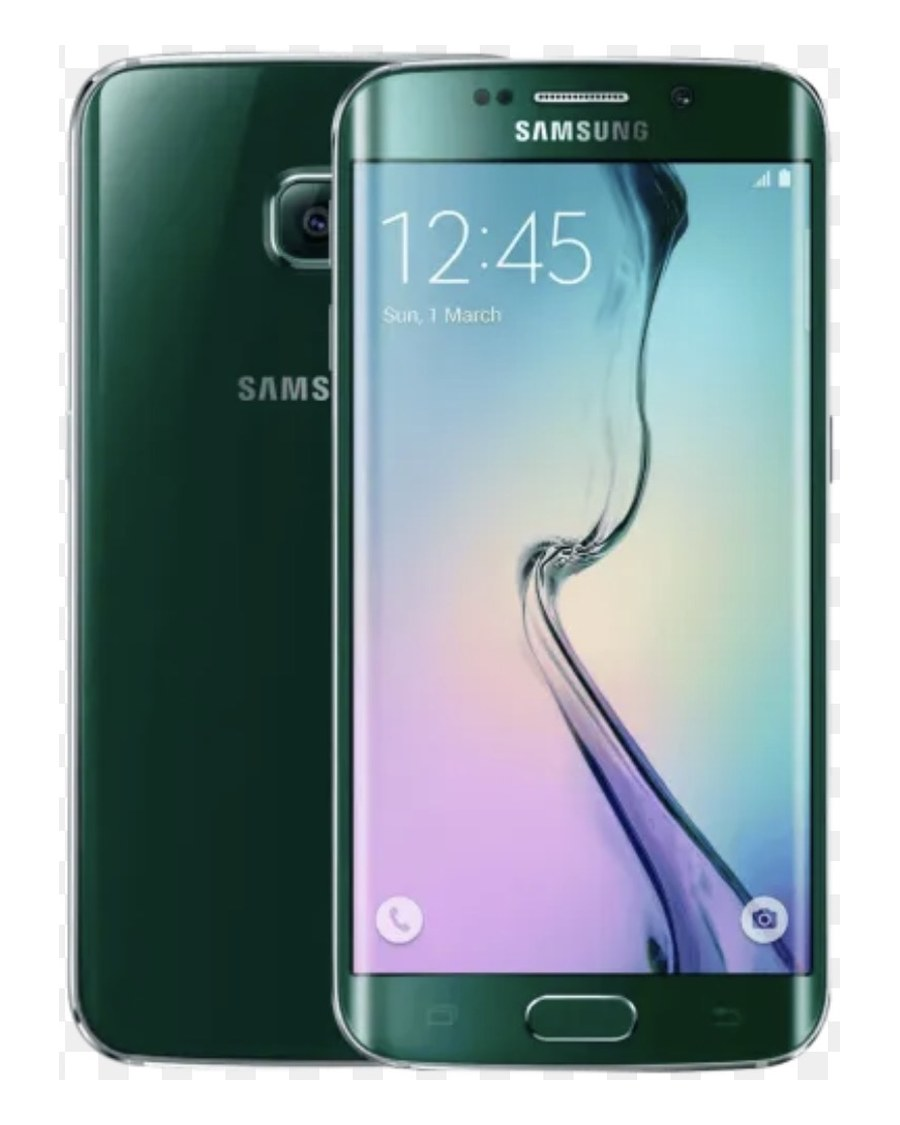
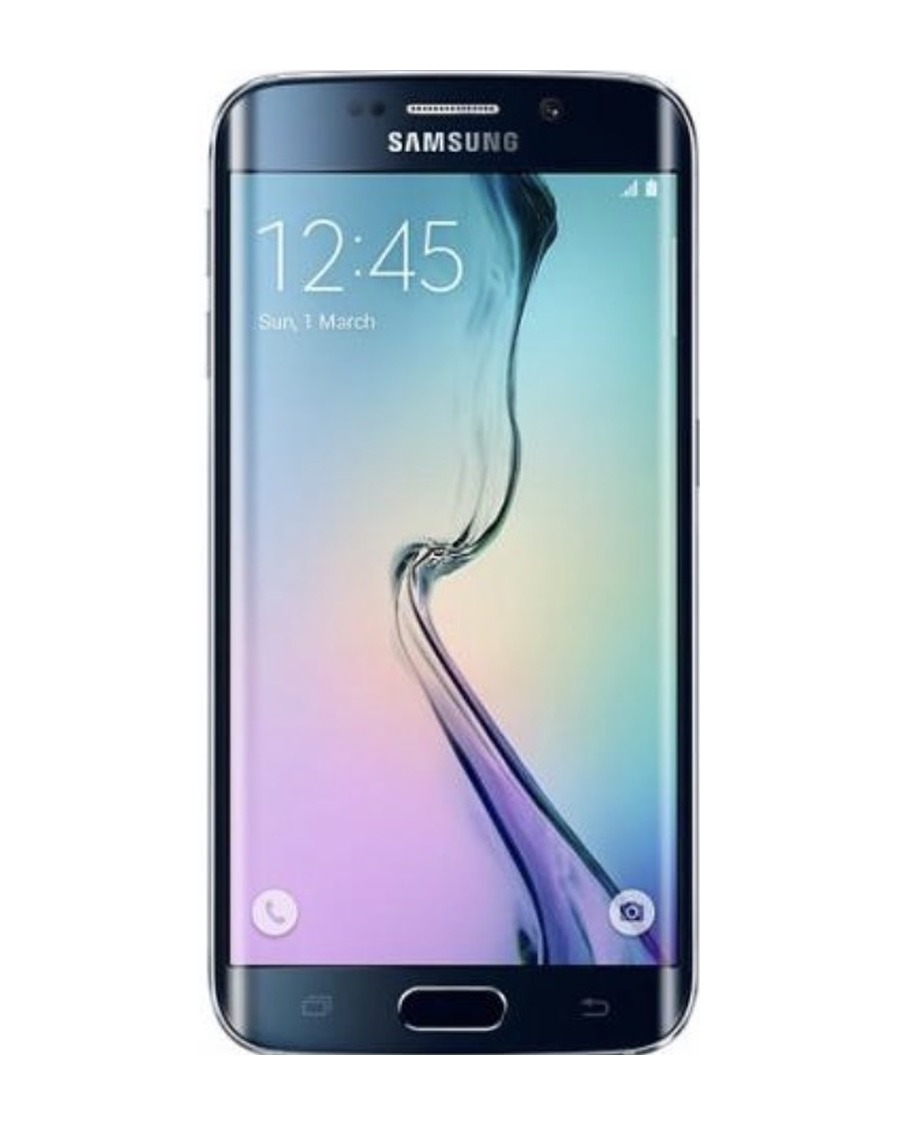
Add/update S6-era and S7 Edge photos (uniform white frame)
- New photo for Galaxy S6 (was a placeholder)
- Refreshed Galaxy S6 Edge and S6 Edge+ shots
- Galaxy S7 Edge: crisp blue front as the main image, gold front+back
  added to the gallery
All normalized to the shared 900x1125 (4:5) white canvas.

Claude-Session: https://claude.ai/code/session_01NrkQoER3NGoCwr35JLCUxQ

diff --git a/src/data/phones.ts b/src/data/phones.ts
@@ -213,6 +213,7 @@ export const PHONES: Phone[] = [
   {
     slug: "galaxy-s7-edge",
     image: "/models/galaxy-s7-edge.jpg",
+    images: ["/models/galaxy-s7-edge-2.jpg"],
     name: "Galaxy S7 Edge",
     series: "Galaxy S",
     releaseYear: 2016,
@@ -1077,6 +1078,7 @@ export const PHONES: Phone[] = [
   // ═════════════ Base and Edge/FE versions of the S line ═════════════
   {
     slug: "galaxy-s6",
+    image: "/models/galaxy-s6.jpg",
     name: "Galaxy S6",
     series: "Galaxy S",
     releaseYear: 2015,